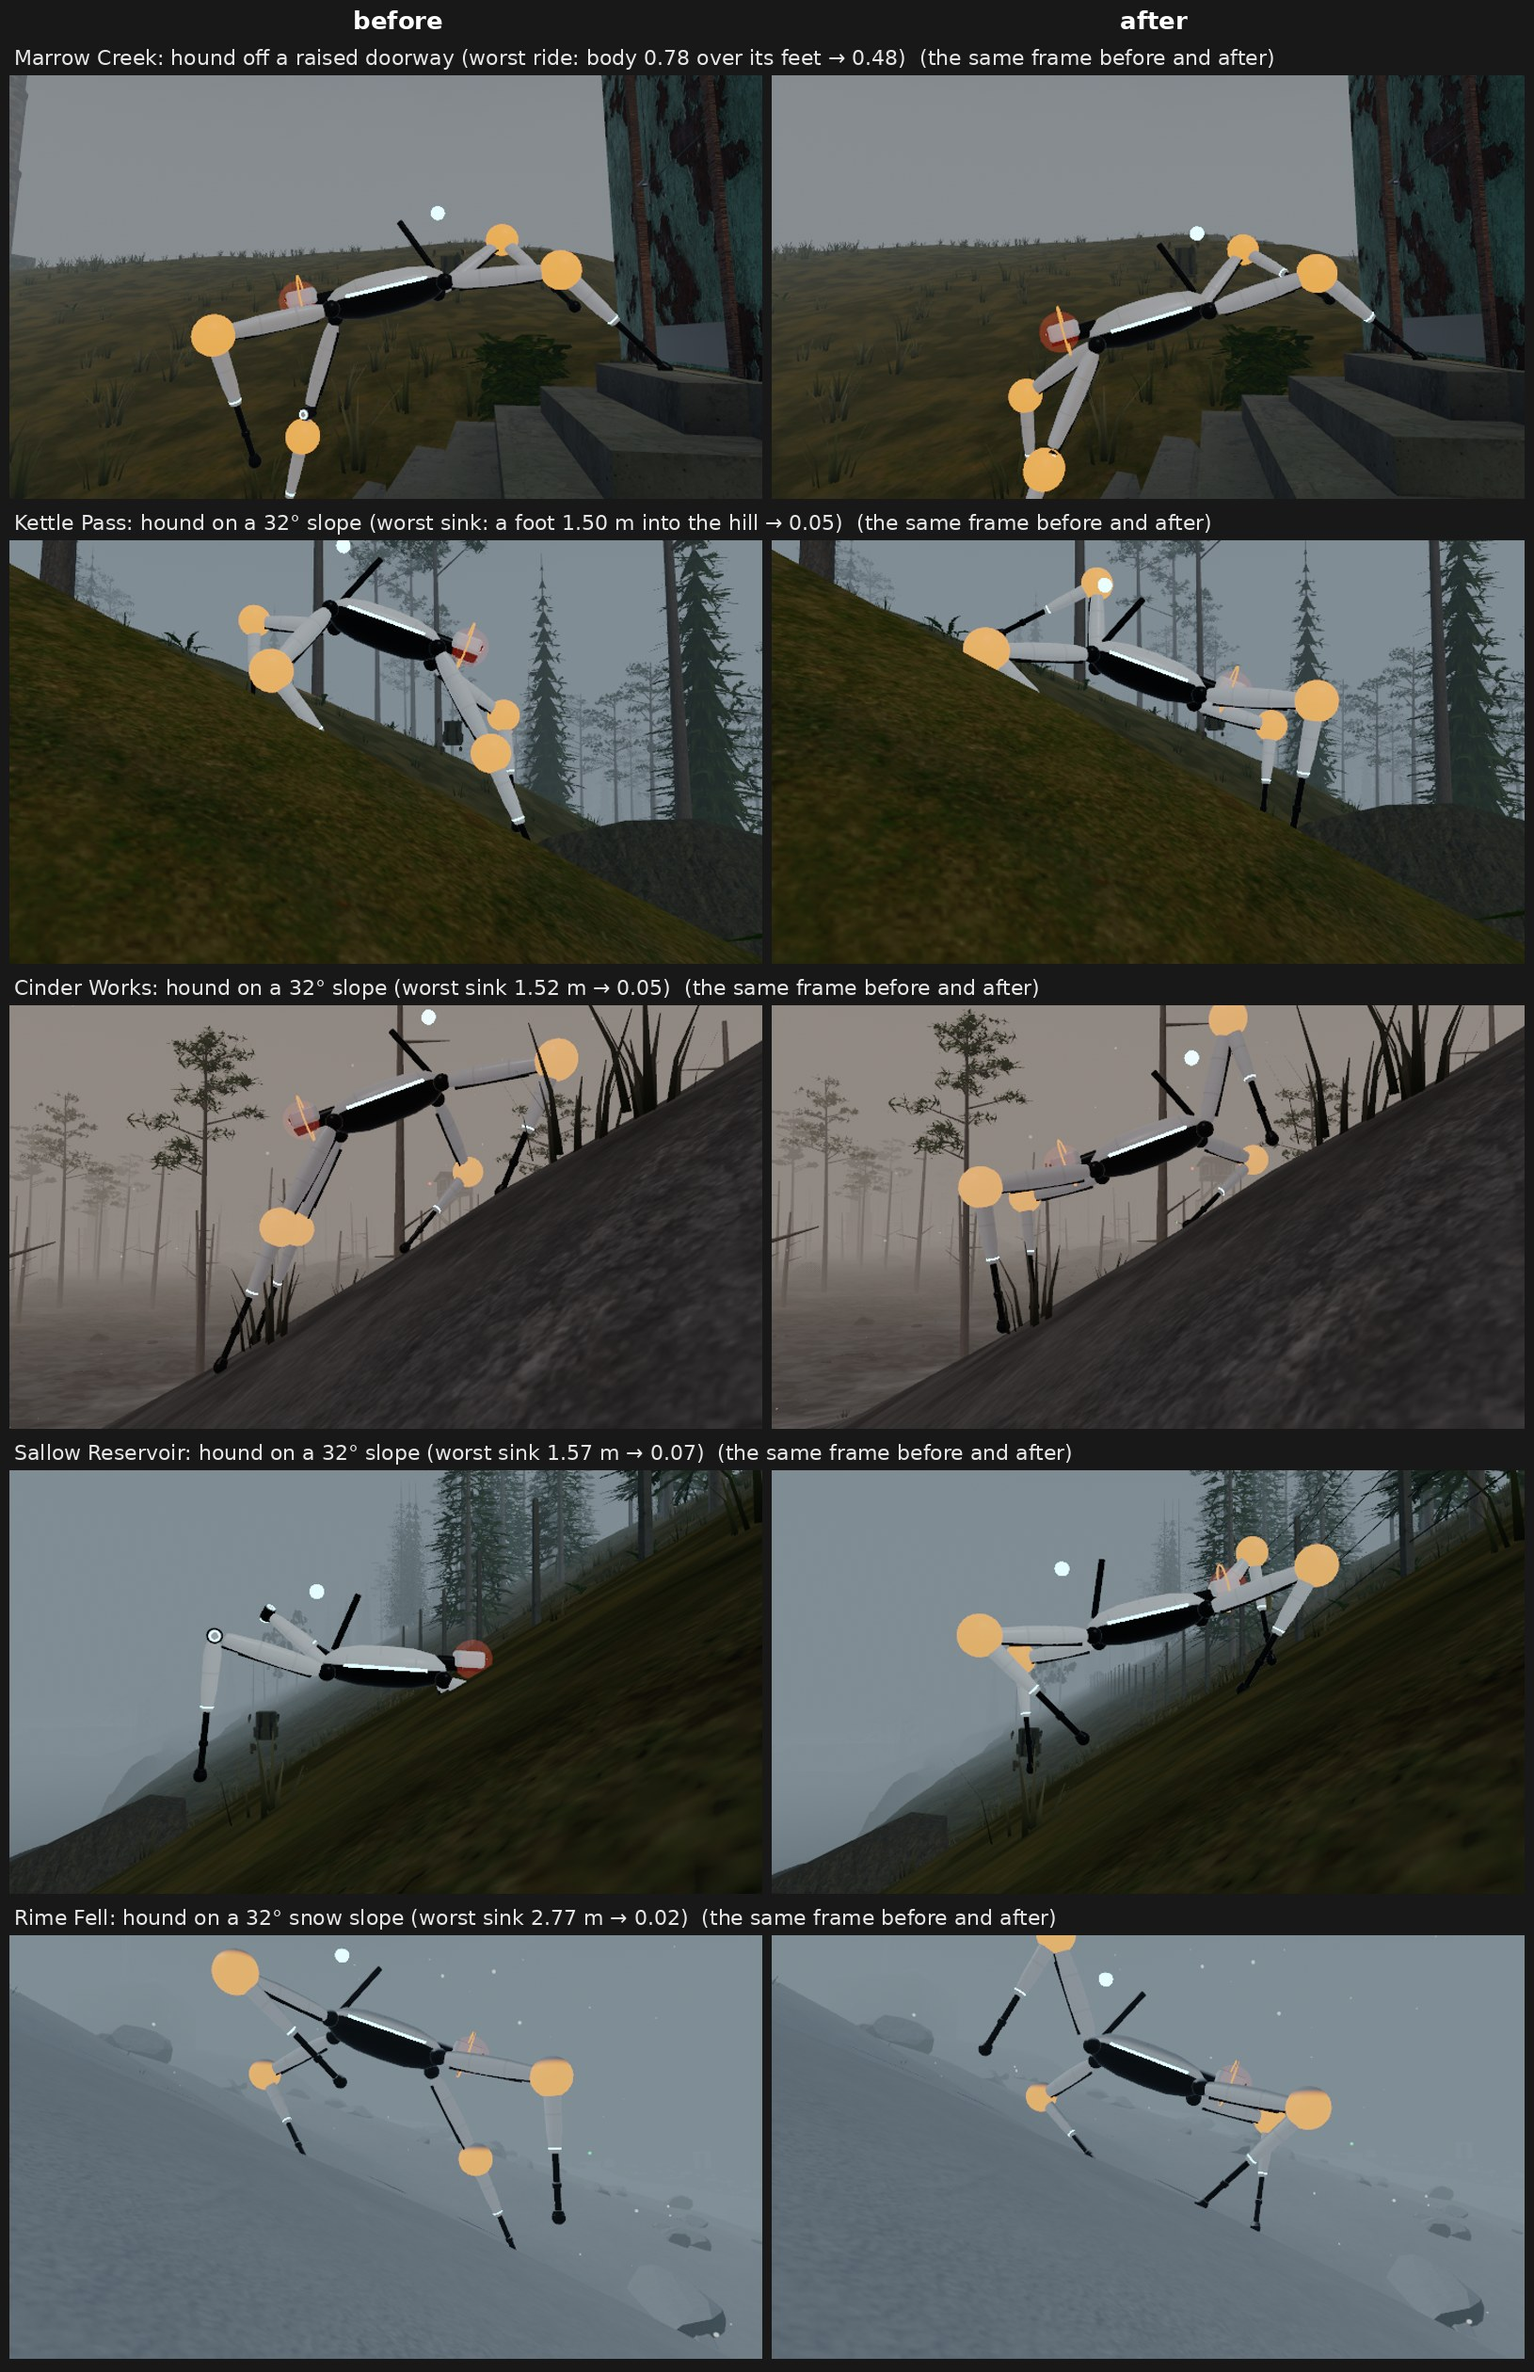
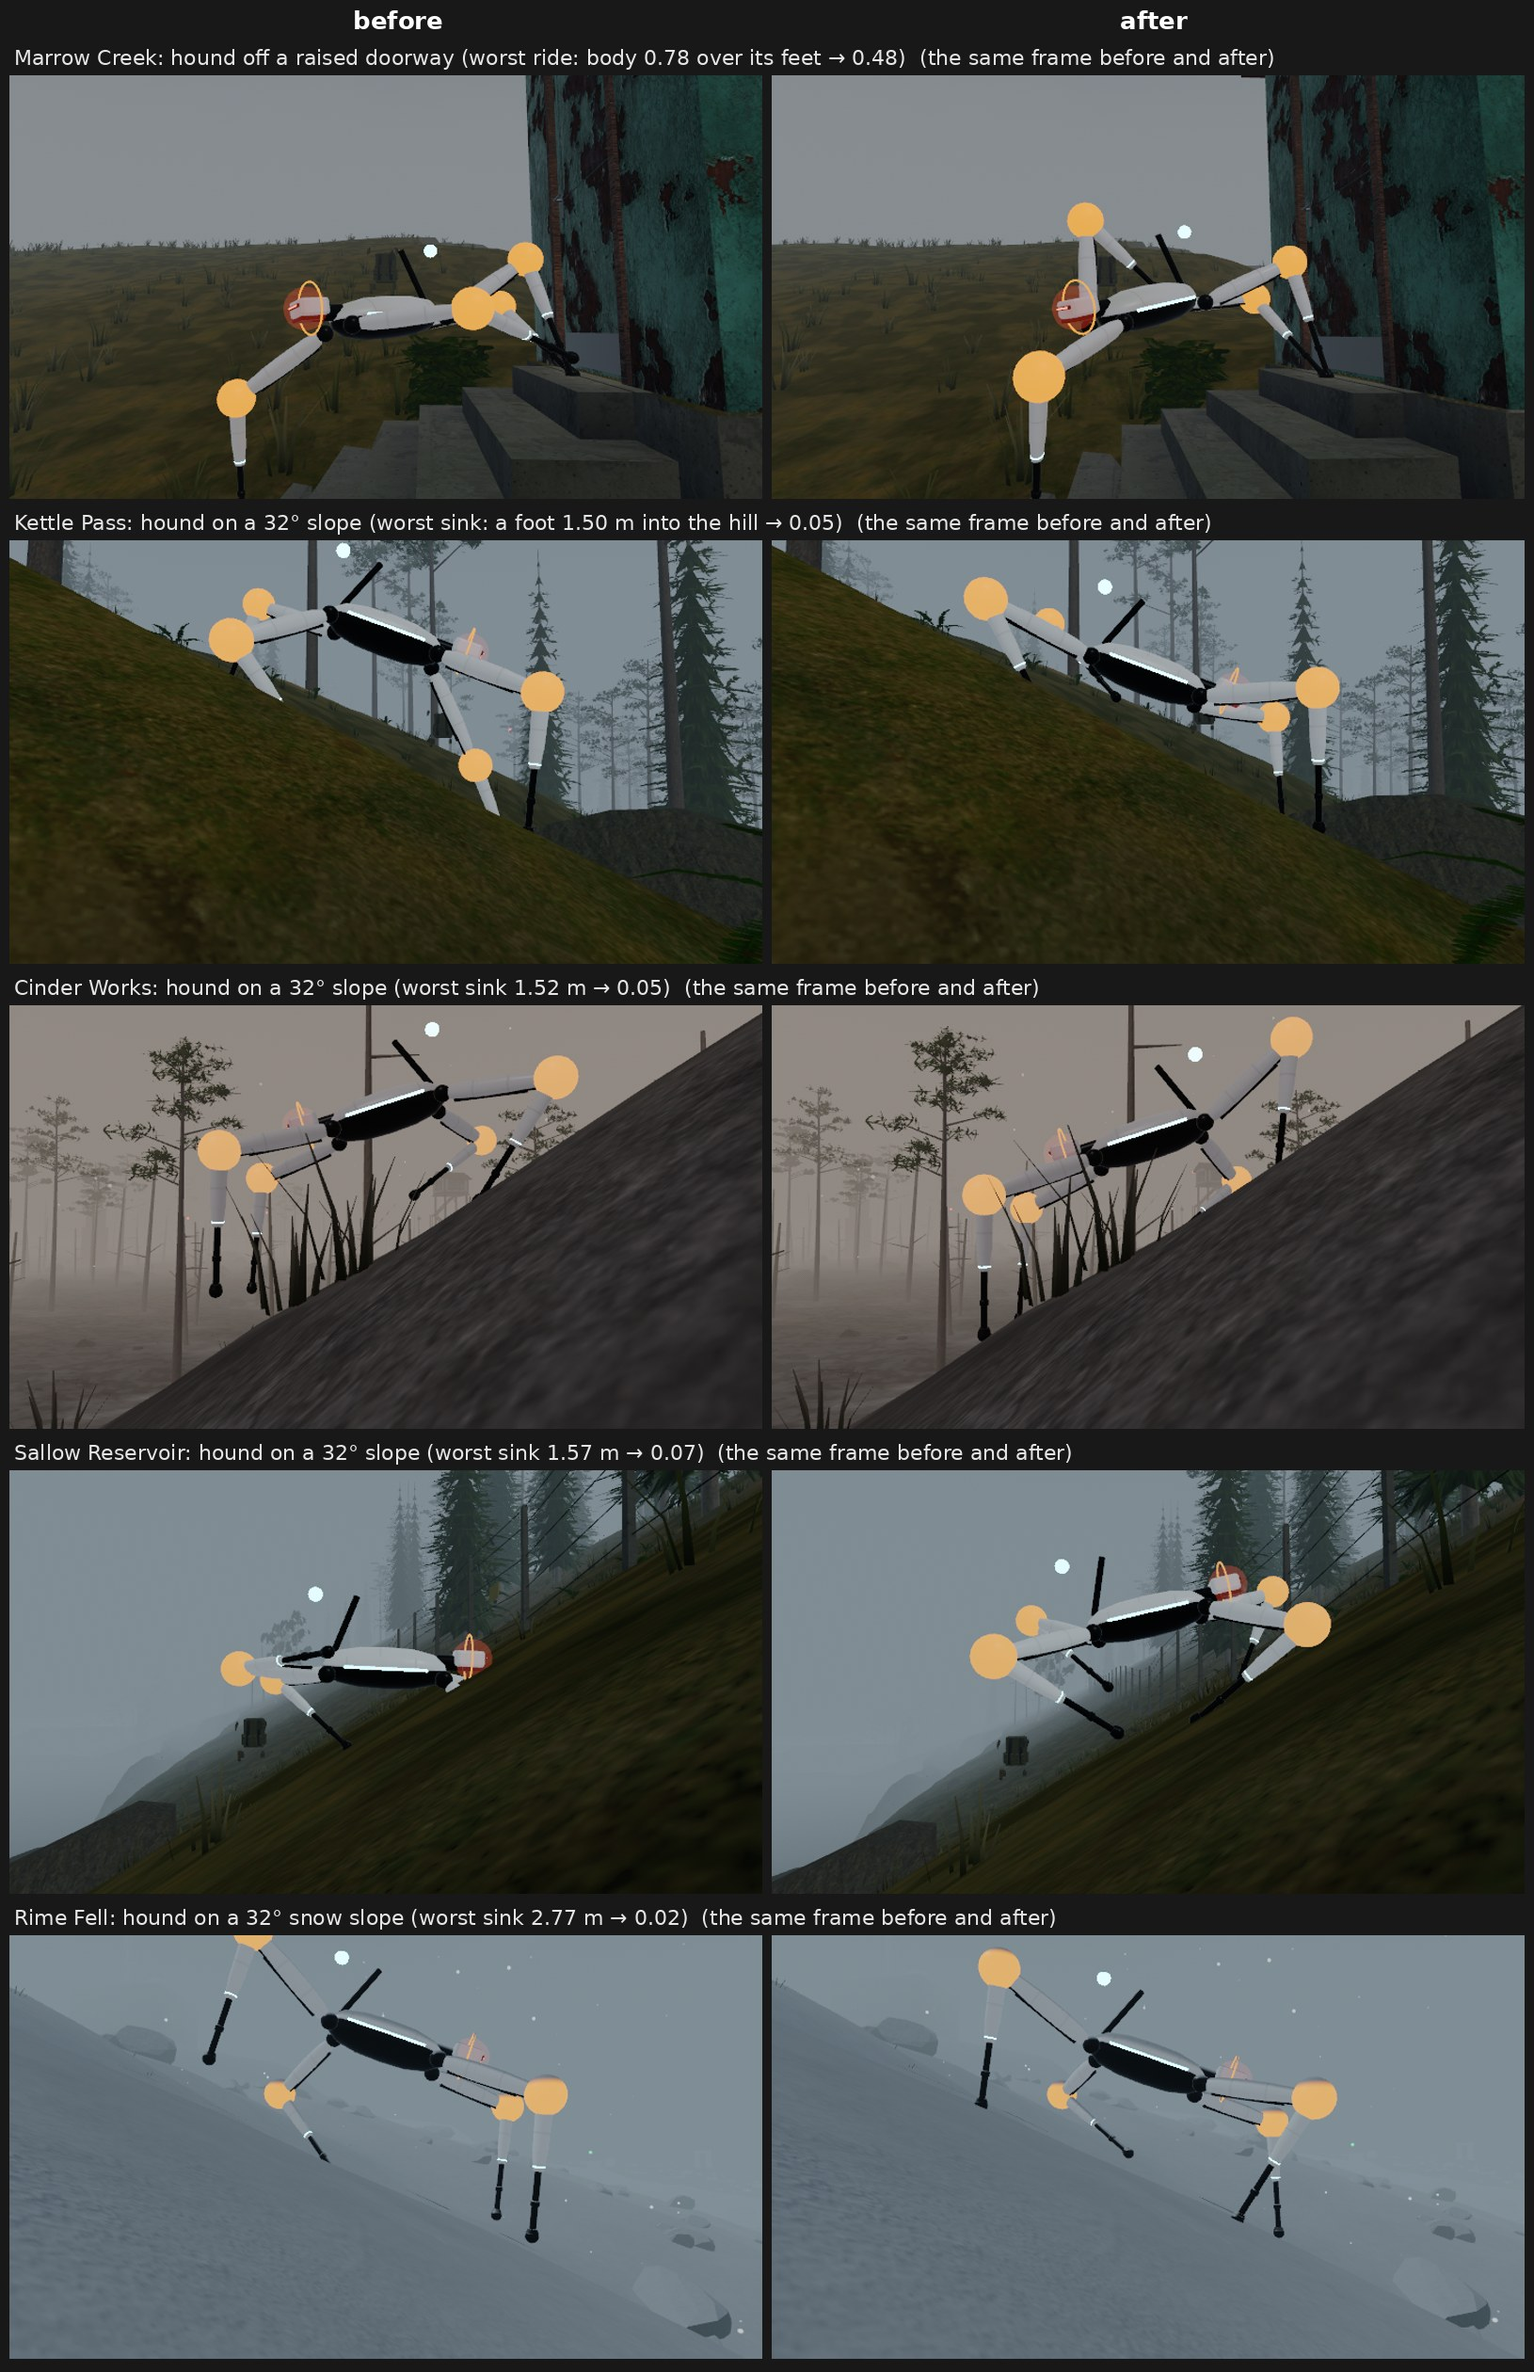
Robot bodies: reel:feetat logs each foot's stance and height, and marks stance feet
Each frame's log gives every foot's stance or swing and its drawn tip's
height over the World/Debris surface under it (m and body sizes); a
green disc lies on the ground under each foot in stance, so a foot down
reads as down from low beside a slope.

Claude-Session: https://claude.ai/code/session_01Ka1TLmCaYKYxaoCkbURtaJ

diff --git a/src/robots/reel.rs b/src/robots/reel.rs
@@ -69,7 +69,17 @@ impl Plugin for ReelPlugin {
 fn feetat_follow(
     opts: Res<LaunchOptions>,
     zone: Option<Res<Zone>>,
-    bodies: Query<&GlobalTransform, With<Walker>>,
+    bodies: Query<(
+        &GlobalTransform,
+        &Walker,
+        &super::walker::LegPoses,
+        &super::anim::Gait,
+    )>,
+    spatial: avian3d::prelude::SpatialQuery,
+    mut commands: Commands,
+    mut marks: Local<Vec<Entity>>,
+    mut placed: Query<(&mut Transform, &mut Visibility), Without<crate::render::FreeCamera>>,
+    (mut meshes, mut materials): (ResMut<Assets<Mesh>>, ResMut<Assets<StandardMaterial>>),
     mut cams: Query<&mut Transform, With<crate::render::FreeCamera>>,
     mut frame: Local<u32>,
     mut heading: Local<Vec3>,
@@ -90,13 +100,80 @@ fn feetat_follow(
     let (Some(&dist), Some(&height)) = (a.get(4), a.get(5)) else {
         return;
     };
-    let Some(body) = bodies.iter().next() else {
+    let Some((body, w, legs, gait)) = bodies.iter().next() else {
         return;
     };
     let at = body.translation();
+    // Each foot: in stance or swing, and how far its drawn tip stands
+    // over the ground under it (the fixed world and rubble, as
+    // `feet_gauge` reads it; m and in body sizes).
+    let surface = |p: Vec3| {
+        let terrain = zone.ground(p.x, p.z);
+        let filter = avian3d::prelude::SpatialQueryFilter::from_mask([
+            crate::world::Layer::World,
+            crate::world::Layer::Debris,
+        ]);
+        let from = p + Vec3::Y * 0.06;
+        spatial
+            .cast_ray(from, Dir3::NEG_Y, 3.0, true, &filter)
+            .filter(|h| h.distance > 0.02)
+            .map(|h| from.y - h.distance)
+            .map_or(terrain, |y| y.max(terrain))
+    };
+    // A bright disc on the ground under each foot in stance, so a foot
+    // down reads as down from low beside a slope (where its toe can sit
+    // above the slope's far line in the picture). The same before and
+    // after a change: it marks what the gait says, not what it draws.
+    if marks.is_empty() {
+        let mesh = meshes.add(Cylinder::new(0.12 * gait.size, 0.03));
+        let mat = materials.add(StandardMaterial {
+            base_color: Color::srgb(0.2, 1.0, 0.35),
+            unlit: true,
+            ..default()
+        });
+        for _ in 0..w.feet.len() {
+            let e = commands
+                .spawn((
+                    Mesh3d(mesh.clone()),
+                    MeshMaterial3d(mat.clone()),
+                    Transform::default(),
+                    Visibility::Hidden,
+                ))
+                .id();
+            marks.push(e);
+        }
+    }
+    for ((f, l), e) in w.feet.iter().zip(legs.0.iter()).zip(marks.iter()) {
+        if let Ok((mut t, mut v)) = placed.get_mut(*e) {
+            t.translation = Vec3::new(l[2].x, surface(l[2]) + 0.015, l[2].z);
+            *v = if f.t >= 1.0 {
+                Visibility::Visible
+            } else {
+                Visibility::Hidden
+            };
+        }
+    }
+    let feet: Vec<String> = w
+        .feet
+        .iter()
+        .zip(legs.0.iter())
+        .map(|(f, l)| {
+            let over = l[2].y - surface(l[2]);
+            format!(
+                "{}{:+.3}m/{:+.3}s",
+                if f.t >= 1.0 { "stance" } else { "swing" },
+                over,
+                over / gait.size
+            )
+        })
+        .collect();
     info!(
-        "feetat frame {} body {:.2} {:.2} {:.2}",
-        *frame, at.x, at.y, at.z
+        "feetat frame {} body {:.2} {:.2} {:.2} feet {}",
+        *frame,
+        at.x,
+        at.y,
+        at.z,
+        feet.join(" ")
     );
     // Square to the way it faces (smoothed, so a stride's sway doesn't
     // swing the camera).
